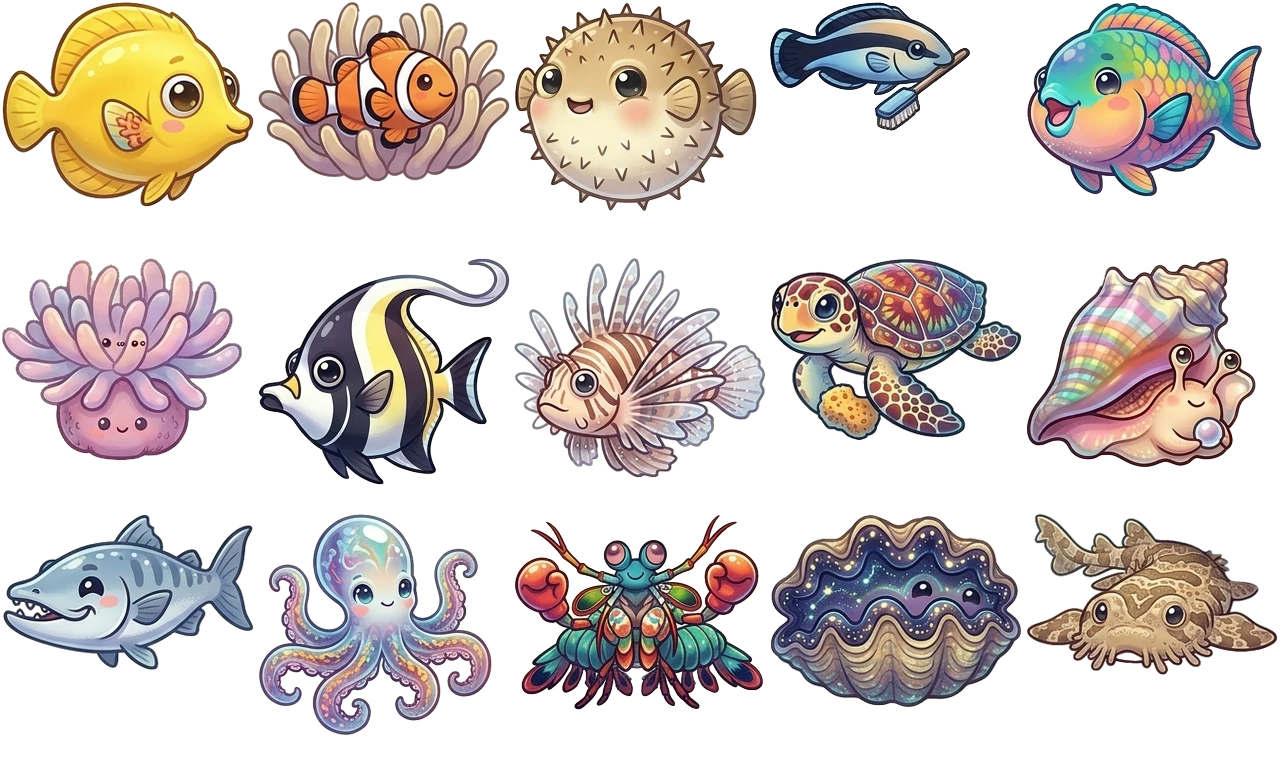
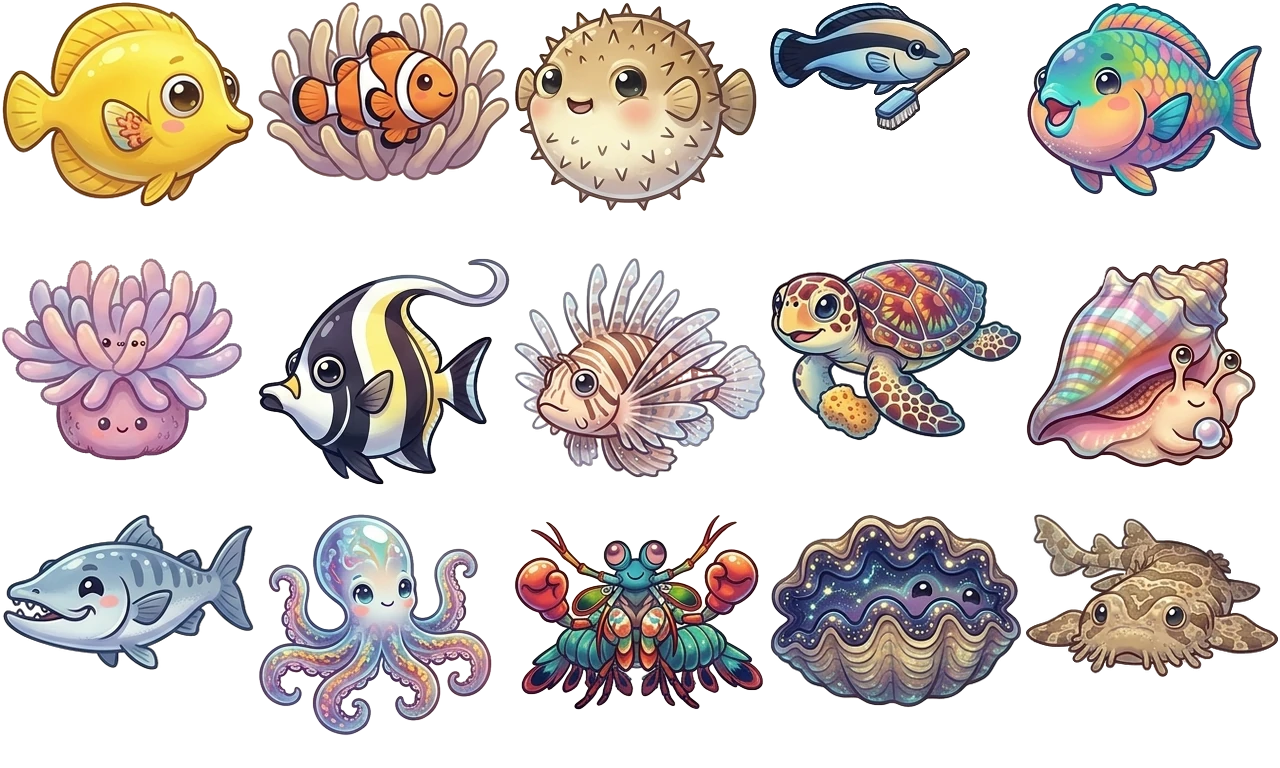
Tidesong: unlocks at 25/50/75 with a look switch, fixed side faces
Merfolk now unlock three of each at 25, 50 and 75 befriended in one
adventure, straight away, and each step offers the character picker to
switch looks. Lagoon and Violet get redrawn switched pictures (hips),
and Orchid's switched fin is finished. Also carries the staged capture
XP and Tasselfin files from 2026-11-20.

Changed region(s): [[0.7812, 0.6562, 1.0, 0.875]]

diff --git a/arcade/js/tidesong/creatureAtlas.js b/arcade/js/tidesong/creatureAtlas.js
@@ -3,8 +3,8 @@
 // creatureremakes/ by creature-cutter/remakes): each creature's rectangle
 // [x, y, w, h] in img/tidesong/creatures/<region>.webp, in the same order as
 // the region's 15 creatures in creatures.js. Do not edit by hand.
-export const creatureAtlas = {"prismreef":[[2,2,252,205],[258,2,252,180],[514,2,243,209],[770,2,200,129],[1026,2,237,195],[2,258,240,203],[258,258,252,227],[514,258,252,220],[770,258,252,183],[1026,258,230,210],[2,514,252,156],[258,514,234,222],[514,514,250,196],[770,514,252,194],[1026,514,252,161]],"verdant":[[2,2,252,135],[258,2,216,219],[514,2,213,177],[770,2,217,170],[1026,2,175,108],[2,258,235,201],[258,258,252,221],[514,258,241,196],[770,258,252,207],[1026,258,226,193],[2,514,252,210],[258,514,251,200],[514,514,250,156],[770,514,252,159],[1026,514,252,146]],"fluvius":[[2,2,194,166],[258,2,252,194],[514,2,189,252],[770,2,195,162],[1026,2,240,147],[2,258,247,191],[258,258,227,223],[514,258,252,180],[770,258,222,179],[1026,258,252,171],[2,514,242,177],[258,514,244,213],[514,514,223,182],[770,514,214,212],[1026,514,252,145]],"pelagia":[[2,2,252,168],[258,2,252,170],[514,2,211,252],[770,2,252,235],[1026,2,252,111],[2,258,224,252],[258,258,252,137],[514,258,252,151],[770,258,252,132],[1026,258,252,172],[2,514,252,169],[258,514,252,202],[514,514,252,186],[770,514,252,167],[1026,514,252,170]],"brinewallow":[[2,2,213,197],[258,2,180,170],[514,2,252,190],[770,2,233,212],[1026,2,203,127],[2,258,218,212],[258,258,193,225],[514,258,118,204],[770,258,252,191],[1026,258,216,183],[2,514,202,227],[258,514,179,157],[514,514,252,155],[770,514,207,185],[1026,514,241,161]],"frostveil":[[2,2,227,182],[258,2,163,185],[514,2,209,144],[770,2,236,153],[1026,2,247,226],[2,258,170,182],[258,258,241,165],[514,258,221,182],[770,258,209,161],[1026,258,172,179],[2,514,181,187],[258,514,172,176],[514,514,221,147],[770,514,185,217],[1026,514,241,168]],"gloomveil":[[2,2,233,188],[258,2,227,139],[514,2,198,191],[770,2,171,135],[1026,2,181,177],[2,258,223,184],[258,258,224,183],[514,258,227,137],[770,258,167,130],[1026,258,215,156],[2,514,203,180],[258,514,228,203],[514,514,235,163],[770,514,206,197],[1026,514,216,198]],"cragspire":[[2,2,240,188],[258,2,220,158],[514,2,238,192],[770,2,224,217],[1026,2,225,187],[2,258,141,133],[258,258,237,148],[514,258,236,213],[770,258,217,144],[1026,258,252,184],[2,514,197,215],[258,514,252,205],[514,514,235,214],[770,514,220,215],[1026,514,228,187]],"abyssal":[[2,2,184,185],[258,2,231,190],[514,2,209,168],[770,2,167,157],[1026,2,188,174],[2,258,178,179],[258,258,223,188],[514,258,170,134],[770,258,190,187],[1026,258,212,162],[2,514,239,171],[258,514,214,190],[514,514,186,159],[770,514,228,195],[1026,514,155,172]],"fangshore":[[2,2,182,200],[258,2,252,167],[514,2,252,249],[770,2,252,235],[1026,2,252,200],[2,258,252,136],[258,258,252,212],[514,258,252,143],[770,258,252,250],[1026,258,252,156],[2,514,252,237],[258,514,252,187],[514,514,246,252],[770,514,252,155],[1026,514,252,217]]};
+export const creatureAtlas = {"prismreef":[[2,2,252,205],[258,2,252,180],[514,2,243,209],[770,2,200,129],[1026,2,237,195],[2,258,240,203],[258,258,252,227],[514,258,252,220],[770,258,252,183],[1026,258,230,210],[2,514,252,156],[258,514,234,222],[514,514,250,196],[770,514,252,194],[1026,514,252,163]],"verdant":[[2,2,252,135],[258,2,216,219],[514,2,213,177],[770,2,217,170],[1026,2,175,108],[2,258,235,201],[258,258,252,221],[514,258,241,196],[770,258,252,207],[1026,258,226,193],[2,514,252,210],[258,514,251,200],[514,514,250,156],[770,514,252,159],[1026,514,252,146]],"fluvius":[[2,2,194,166],[258,2,252,194],[514,2,189,252],[770,2,195,162],[1026,2,240,147],[2,258,247,191],[258,258,227,223],[514,258,252,180],[770,258,222,179],[1026,258,252,171],[2,514,242,177],[258,514,244,213],[514,514,223,182],[770,514,214,212],[1026,514,252,145]],"pelagia":[[2,2,252,168],[258,2,252,170],[514,2,211,252],[770,2,252,235],[1026,2,252,111],[2,258,224,252],[258,258,252,137],[514,258,252,151],[770,258,252,132],[1026,258,252,172],[2,514,252,169],[258,514,252,202],[514,514,252,186],[770,514,252,167],[1026,514,252,170]],"brinewallow":[[2,2,213,197],[258,2,180,170],[514,2,252,190],[770,2,233,212],[1026,2,203,127],[2,258,218,212],[258,258,193,225],[514,258,118,204],[770,258,252,191],[1026,258,216,183],[2,514,202,227],[258,514,179,157],[514,514,252,155],[770,514,207,185],[1026,514,241,161]],"frostveil":[[2,2,227,182],[258,2,163,185],[514,2,209,144],[770,2,236,153],[1026,2,247,226],[2,258,170,182],[258,258,241,165],[514,258,221,182],[770,258,209,161],[1026,258,172,179],[2,514,181,187],[258,514,172,176],[514,514,221,147],[770,514,185,217],[1026,514,241,168]],"gloomveil":[[2,2,233,188],[258,2,227,139],[514,2,198,191],[770,2,171,135],[1026,2,181,177],[2,258,223,184],[258,258,224,183],[514,258,227,137],[770,258,167,130],[1026,258,215,156],[2,514,203,180],[258,514,228,203],[514,514,235,163],[770,514,206,197],[1026,514,216,198]],"cragspire":[[2,2,240,188],[258,2,220,158],[514,2,238,192],[770,2,224,217],[1026,2,225,187],[2,258,141,133],[258,258,237,148],[514,258,236,213],[770,258,217,144],[1026,258,252,184],[2,514,197,215],[258,514,252,205],[514,514,235,214],[770,514,220,215],[1026,514,228,187]],"abyssal":[[2,2,184,185],[258,2,231,190],[514,2,209,168],[770,2,167,157],[1026,2,188,174],[2,258,178,179],[258,258,223,188],[514,258,170,134],[770,258,190,187],[1026,258,212,162],[2,514,239,171],[258,514,214,190],[514,514,186,159],[770,514,228,195],[1026,514,155,172]],"fangshore":[[2,2,182,200],[258,2,252,167],[514,2,252,249],[770,2,252,235],[1026,2,252,200],[2,258,252,136],[258,258,252,212],[514,258,252,143],[770,258,252,250],[1026,258,252,156],[2,514,252,237],[258,514,252,187],[514,514,246,252],[770,514,252,155],[1026,514,252,217]]};
 
 // A hash of each region picture, added to its address so browsers fetch
 // the new picture whenever it changes.
-export const creatureArtVersion = {"prismreef":"d20cc8d508","verdant":"070a72cadb","fluvius":"4781425dd9","pelagia":"941ec72ac7","brinewallow":"b69db1bfab","frostveil":"8fc600987e","gloomveil":"12e54daefc","cragspire":"581d9bd57d","abyssal":"733a6e8694","fangshore":"a9b7f3933a"};
+export const creatureArtVersion = {"prismreef":"c906772ae3","verdant":"070a72cadb","fluvius":"4781425dd9","pelagia":"941ec72ac7","brinewallow":"b69db1bfab","frostveil":"8fc600987e","gloomveil":"12e54daefc","cragspire":"581d9bd57d","abyssal":"733a6e8694","fangshore":"a9b7f3933a"};

diff --git a/arcade/js/tidesong/creator.js b/arcade/js/tidesong/creator.js
@@ -1,12 +1,15 @@
 // Choosing your character: a mermaid or merman from the cast, shown exactly
 // as drawn, plus a name. Three of each are open at first; the rest show as
-// locked until playthroughs unlock them (unlocks.js). Resolves with the
+// locked until adventures unlock them (unlocks.js). Resolves with the
 // finished avatar, or null if the player backs out to the main menu.
+// With `switching` (the avatar in play) it is the look picker offered at
+// each unlock milestone: no name box, and it resolves with the new avatar,
+// or null to keep the current one.
 import { bodies } from "./avatar.js";
 import { castList, drawCast, unlockOrder } from "./cast.js";
 import { html } from "./panels.js";
 import { drawPortrait, portraitHeight, portraitWidth } from "./portrait.js";
-import { isUnlocked, perUnlock, unlockGoal, unlockedLooks } from "./unlocks.js";
+import { isUnlocked, nextUnlockAt, perUnlock, unlockedLooks } from "./unlocks.js";
 import { escapeHtml } from "./util.js";
 
 function renderPreview(canvas, avatar) {
@@ -38,30 +41,35 @@ function card(group, look, avatar, username) {
   </button>`;
 }
 
-export function runCreator(panels, username) {
+export function runCreator(panels, username, { switching = null, title = "Choose your merfolk" } = {}) {
   const firstOpen = (group) => {
     return unlockedLooks(username, group)[0];
   };
-  const avatar = { body: 0, look: firstOpen("mermaids"), name: "" };
-  avatar.name = castList("mermaids")[avatar.look].name;
+  const avatar = switching
+    ? { ...switching }
+    : { body: 0, look: firstOpen("mermaids"), name: "" };
+  if (!switching) avatar.name = castList("mermaids")[avatar.look].name;
+  const nameBox = switching ? "" : `<label class="ts-name">Name <input maxlength="14" autocomplete="off" spellcheck="false"></label>`;
+  const backLabel = switching ? "Keep my look" : "Back";
+  const goLabel = switching ? "Switch!" : "Dive in!";
   return new Promise((resolve) => {
     panels.open("ts-creator-screen", (root) => {
       const view = html(`
         <div class="ts-creator">
           <div class="ts-preview">
             <canvas width="${portraitWidth}" height="${portraitHeight}" aria-label="Your character"></canvas>
-            <label class="ts-name">Name <input maxlength="14" autocomplete="off" spellcheck="false"></label>
+            ${nameBox}
           </div>
           <div class="ts-options">
-            <h2>Choose your merfolk</h2>
+            <h2>${escapeHtml(title)}</h2>
             <div class="ts-body-tabs" role="group" aria-label="Mermaid or merman"></div>
             <p class="ts-note ts-unlock-note"></p>
             <div class="ts-cast"></div>
           </div>
           <div class="ts-creator-actions">
-            <button type="button" class="ts-btn ghost" data-back>Back</button>
+            <button type="button" class="ts-btn ghost" data-back>${backLabel}</button>
             <button type="button" class="ts-btn ghost" data-random>Surprise me</button>
-            <button type="button" class="ts-btn go" data-begin>Dive in!</button>
+            <button type="button" class="ts-btn go" data-begin>${goLabel}</button>
           </div>
         </div>`);
       root.append(view);
@@ -69,9 +77,12 @@ export function runCreator(panels, username) {
       const tabs = view.querySelector(".ts-body-tabs");
       const note = view.querySelector(".ts-unlock-note");
       const grid = view.querySelector(".ts-cast");
-      const name = view.querySelector("input");
+      // Switching has no name box. The name then follows the character
+      // only if it is still that character's own name.
+      const name = view.querySelector("input") ?? { value: avatar.name };
       name.value = avatar.name;
-      let typed = false;
+      let typed = Boolean(switching)
+        && avatar.name !== castList(bodies[avatar.body].group)[avatar.look].name;
 
       const pick = (look) => {
         const group = bodies[avatar.body].group;
@@ -92,7 +103,7 @@ export function runCreator(panels, username) {
         const open = unlockedLooks(username, group).length;
         note.textContent = open >= 12
           ? `All 12 ${bodies[avatar.body].plural.toLowerCase()} are unlocked!`
-          : `${open} of 12 unlocked. Befriend ${unlockGoal} creatures in one adventure to unlock ${perUnlock} more mermaids and ${perUnlock} more mermen for your next adventure.`;
+          : `${open} of 12 unlocked. Befriend ${nextUnlockAt(username)} creatures in one adventure to unlock ${perUnlock} more mermaids and ${perUnlock} more mermen.`;
         grid.innerHTML = unlockOrder[group].map((look) => {
           return card(group, look, avatar, username);
         }).join("");
@@ -118,10 +129,12 @@ export function runCreator(panels, username) {
         refresh();
         grid.querySelector(`[data-look="${avatar.look}"]`)?.focus();
       });
-      name.addEventListener("input", () => {
-        typed = name.value.trim() !== "";
-        avatar.name = name.value;
-      });
+      if (!switching) {
+        name.addEventListener("input", () => {
+          typed = name.value.trim() !== "";
+          avatar.name = name.value;
+        });
+      }
       view.querySelector("[data-random]").addEventListener("click", () => {
         const open = unlockedLooks(username, bodies[avatar.body].group);
         pick(open[Math.floor(Math.random() * open.length)]);

diff --git a/arcade/js/tidesong/modelAtlas.js b/arcade/js/tidesong/modelAtlas.js
@@ -7,4 +7,4 @@
 // as [x, y, w, h, dx, dy]: (dx, dy) is where that picture's corner
 // sits on the normal one's. `heads` is each normal figure's head
 // centre within it. Do not edit by hand.
-export const modelAtlas = {"heads":{"mermaids":[[64.0,21.3],[66.9,21.7],[69.8,21.7],[67.1,22.4],[64.7,19.0],[64.3,20.5],[87.1,22.4],[66.7,20.7],[68.0,20.0],[65.1,19.7],[67.7,22.7],[68.4,22.6]],"mermen":[[57.6,22.6],[55.9,21.8],[57.7,22.1],[56.9,22.1],[58.9,22.2],[67.2,24.2],[85.2,22.7],[87.7,23.8],[86.1,22.6],[84.8,22.8],[83.4,23.0],[83.9,22.6]]},"mermaids":[[0,0,156,254],[158,0,153,269],[313,0,150,272],[465,0,151,271],[618,0,162,239],[782,0,168,242],[952,0,173,269],[1127,0,155,256],[1284,0,153,249],[1439,0,152,244],[1593,0,170,274],[1765,0,153,276]],"mermen":[[0,278,154,282],[156,278,156,276],[314,278,154,279],[470,278,158,278],[630,278,158,276],[790,278,168,282],[960,278,148,285],[1110,278,165,288],[1277,278,148,282],[1427,278,147,287],[1576,278,149,288],[1727,278,150,286]],"switch":{"mermaids":[[0,568,165,254,-36.5,0.0],[167,568,158,269,-21.8,0.0],[327,568,168,272,-26.9,0.0],[497,568,155,271,-19.7,0.0],[654,568,186,239,-40.3,0.0],[842,568,192,242,-23.5,0.4],[1036,568,157,269,0.0,0.0],[1195,568,170,256,-39.9,0.0],[1367,568,158,249,-34.9,0.0],[1527,568,168,244,-39.9,0.0],[1697,568,184,274,-14.7,0.0],[1883,568,173,276,-19.7,0.0]],"mermen":[[0,846,154,282,-37.6,0.0],[156,846,156,276,-43.2,0.0],[314,846,154,279,-37.6,0.0],[470,846,158,278,-43.2,0.0],[630,846,158,276,-39.2,0.0],[790,846,168,282,-32.8,0.0],[960,846,148,285,24.0,0.0],[1110,846,165,288,11.2,0.0],[1277,846,148,282,25.6,0.0],[1427,846,147,287,23.2,0.0],[1576,846,149,288,19.2,0.0],[1727,846,150,286,19.2,0.0]]},"art":"ad4b3a4846"};
+export const modelAtlas = {"heads":{"mermaids":[[64.0,21.3],[66.9,21.7],[69.8,21.7],[67.1,22.4],[64.7,19.0],[64.3,20.5],[87.1,22.4],[66.7,20.7],[68.0,20.0],[65.1,19.7],[67.7,22.7],[68.4,22.6]],"mermen":[[57.6,22.6],[55.9,21.8],[57.7,22.1],[56.9,22.1],[58.9,22.2],[67.2,24.2],[85.2,22.7],[87.7,23.8],[86.1,22.6],[84.8,22.8],[83.4,23.0],[83.9,22.6]]},"mermaids":[[0,0,156,254],[158,0,153,269],[313,0,150,272],[465,0,151,271],[618,0,162,239],[782,0,168,242],[952,0,173,269],[1127,0,155,256],[1284,0,153,249],[1439,0,152,244],[1593,0,170,274],[1765,0,153,276]],"mermen":[[0,278,154,282],[156,278,156,276],[314,278,154,279],[470,278,158,278],[630,278,158,276],[790,278,168,282],[960,278,148,285],[1110,278,165,288],[1277,278,148,282],[1427,278,147,287],[1576,278,149,288],[1727,278,150,286]],"switch":{"mermaids":[[0,568,165,254,-36.5,0.0],[167,568,158,269,-21.8,0.0],[327,568,160,275,-17.6,0.0],[489,568,155,271,-19.7,0.0],[646,568,186,239,-40.3,0.0],[834,568,215,242,-47.5,0.4],[1051,568,157,269,0.0,0.0],[1210,568,170,256,-39.9,0.0],[1382,568,158,249,-34.9,0.0],[1542,568,168,245,-39.9,-0.4],[1712,568,184,274,-14.7,0.0],[1898,568,173,276,-19.7,0.0]],"mermen":[[0,846,154,282,-37.6,0.0],[156,846,156,276,-43.2,0.0],[314,846,154,279,-37.6,0.0],[470,846,158,278,-43.2,0.0],[630,846,158,276,-39.2,0.0],[790,846,168,282,-32.8,0.0],[960,846,148,285,24.0,0.0],[1110,846,165,288,11.2,0.0],[1277,846,148,282,25.6,0.0],[1427,846,147,287,23.2,0.0],[1576,846,149,288,19.2,0.0],[1727,846,150,286,19.2,0.0]]},"art":"c11aa37595"};

diff --git a/arcade/js/tidesong/game.js b/arcade/js/tidesong/game.js
@@ -14,7 +14,7 @@ import { runCreator } from "./creator.js";
 import { loadCastArt } from "./cast.js";
 import { loadCreatureArt } from "./creatureArt.js";
 import { pullSaves, pushSlot, pushUnlocks } from "./cloud.js";
-import { claimUnlock, perUnlock, unlockGoal } from "./unlocks.js";
+import { claimUnlock } from "./unlocks.js";
 import { creatureById } from "./creatures.js";
 import { items } from "./data.js";
 import { drawHud } from "./hud.js";
@@ -68,6 +68,8 @@ const game = {
   inTown: false,
   mode: "title",
   moving: false,
+  // An unlock step just reached: offer a new look once the player is free.
+  lookOffer: null,
   // Mermaid swimming and turning poses (see pose.js).
   pose: makePose(),
   saveTimer: 0,
@@ -107,10 +109,12 @@ async function ask(label) {
 
 function save() {
   if (!game.state) return;
-  // Reaching the befriend goal unlocks more merfolk for the next adventure.
-  if (claimUnlock(game.state, username)) {
-    panels.toast(`You've befriended ${unlockGoal} creatures! ${perUnlock} new mermaids and ${perUnlock} new mermen are unlocked for your next adventure.`, 6000);
-    pushUnlocks(username);
+  // Befriending 25, 50 and 75 creatures unlocks more merfolk, and each
+  // time the player may switch to one.
+  const reached = claimUnlock(game.state, username);
+  if (reached) {
+    if (reached.fresh) pushUnlocks(username);
+    game.lookOffer = reached;
   }
   saveGame(game.state, username, game.slot);
   pushSlot(username, game.slot);
@@ -333,6 +337,27 @@ async function useLair(lair) {
   if (go) await startBattle(species, legendaryLevel(species.id));
 }
 
+// At an unlock step: the character picker, starting on the current look.
+async function offerLook() {
+  const { count, fresh } = game.lookOffer;
+  game.lookOffer = null;
+  game.busy = true;
+  // The note under the tabs gives the counts, so the heading stays short.
+  const title = fresh ? `${count} befriended! New merfolk unlocked!` : `${count} befriended! Switch your look?`;
+  const chosen = await runCreator(panels, username, { switching: game.state.avatar, title });
+  if (chosen) {
+    game.state.avatar = chosen;
+    // The pictures and turn pose belong to the old character.
+    game.pose = makePose();
+    clearPortraitCache();
+    clearSpriteCache();
+    save();
+    panels.toast("New look saved!");
+  }
+  input.flush();
+  game.busy = false;
+}
+
 // One step through the wild: maybe a creature appears.
 async function step() {
   const { state } = game;
@@ -509,6 +534,7 @@ function loop(now) {
   game.dt = dt;
   view.time += dt;
   if (game.mode === "explore" && game.state) {
+    if (!game.busy && !panels.isOpen() && game.lookOffer) offerLook();
     if (!game.busy && !panels.isOpen()) updateExplore(dt);
     renderExplore();
   } else if (game.mode === "battle") {
@@ -523,6 +549,7 @@ function loop(now) {
 
 function begin(state) {
   game.state = state;
+  game.lookOffer = null;
   game.mode = "explore";
   game.atDoor = true;
   game.atLair = true;

diff --git a/arcade/js/tidesong/unlocks.js b/arcade/js/tidesong/unlocks.js
@@ -1,10 +1,11 @@
 // Which merfolk a player can choose. Three mermaids and three mermen are
-// open from the start. Each adventure that befriends `unlockGoal`
-// creatures opens three more of each for the player's next adventures.
+// open from the start. An adventure that befriends 25, 50 and 75 creatures
+// opens three more of each at every one of those steps, straight away.
 // Unlocks belong to the arcade login and survive starting a new character.
 import { unlockOrder } from "./cast.js";
 
-export const unlockGoal = 25;
+// Befriended counts that unlock the next three of each.
+export const unlockSteps = [25, 50, 75];
 export const perUnlock = 3;
 const total = 12;
 
@@ -12,7 +13,7 @@ function key(username) {
   return `tidesong:unlocks:${username || "guest"}`;
 }
 
-// How many playthroughs have reached the goal so far.
+// How many unlock steps this login has reached, in its best adventure.
 export function unlockTier(username) {
   try {
     const tier = Number(JSON.parse(localStorage.getItem(key(username)))?.tier);
@@ -43,13 +44,32 @@ export function isUnlocked(username, group, look) {
   return unlockedLooks(username, group).includes(look);
 }
 
+// The befriended count that unlocks the next three, for the creator's note.
+export function nextUnlockAt(username) {
+  return unlockSteps[Math.min(unlockTier(username), unlockSteps.length - 1)];
+}
+
+// How many unlock steps an adventure has reached. Saves from before the
+// steps only flag the first one (`unlockClaimed`).
+function stepsReached(state) {
+  if (Number.isInteger(state.unlockStep)) return state.unlockStep;
+  return state.unlockClaimed ? 1 : 0;
+}
+
 // Call after anything that can befriend a creature. The first time this
-// adventure reaches the goal, the next three of each unlock. Returns true
-// when something new was unlocked, so the game can say so.
+// adventure reaches an unlock step, the login's unlocks catch up to it.
+// Returns null, or { count, fresh } for the step just reached: `count` is
+// how many were befriended, and `fresh` is true when it opened characters
+// this login did not have yet. Either way the game offers a new look.
 export function claimUnlock(state, username) {
-  if (state.unlockClaimed || state.caught.length < unlockGoal) return false;
-  state.unlockClaimed = true;
-  if (unlockedCount(username) >= total) return false;
-  setUnlockTier(username, unlockTier(username) + 1);
-  return true;
+  const before = stepsReached(state);
+  const reached = unlockSteps.filter((n) => {
+    return state.caught.length >= n;
+  }).length;
+  if (reached <= before) return null;
+  state.unlockStep = reached;
+  delete state.unlockClaimed;
+  const fresh = reached > unlockTier(username);
+  if (fresh) setUnlockTier(username, reached);
+  return { count: unlockSteps[reached - 1], fresh };
 }

diff --git a/arcade/js/tidesong/battle.js b/arcade/js/tidesong/battle.js
@@ -145,6 +145,26 @@ function levelUp(entity, gain) {
   return grew;
 }
 
+// Names everyone who earns XP from this battle: you, plus each team member
+// who took part and is still standing.
+function xpLine(b, gain) {
+  const { state } = b;
+  const names = [];
+  for (const uid of b.participants) {
+    if (uid === "you") {
+      names.push(state.avatar.name);
+      continue;
+    }
+    const c = state.party.find((p) => {
+      return p.uid === uid;
+    });
+    if (c && c.hp > 0) names.push(creatureById(c.species).name);
+  }
+  if (names.length === 0) return `You earned ${gain} XP.`;
+  const who = names.length === 1 ? names[0] : `${names.slice(0, -1).join(", ")} and ${names[names.length - 1]}`;
+  return `${who} ${names.length === 1 ? "earned" : "each earned"} ${gain} XP.`;
+}
+
 async function reward(b) {
   const { state } = b;
   const wild = b.scene.wild;
@@ -162,6 +182,7 @@ async function reward(b) {
     b.sound("level");
     await b.say(`${wild.species.name} left you a ${items[key].name}!${opens ? ` The way into ${opens.name} is open.` : ""}`);
   }
+  await b.say(xpLine(b, gain));
   for (const uid of b.participants) {
     if (uid === "you") {
       const before = playerStats(state);
@@ -253,6 +274,8 @@ async function sing(b) {
   }
   b.scene.capture = { done: true, start: performance.now() };
   b.sound("win");
+  // You sang the song, so you share the XP for the capture.
+  b.participants.add("you");
   const where = addCaptured(state, wild.species, wild.level, Math.max(1, wild.hp));
   await b.say(`You befriended ${wild.species.name}!`);
   if (where === "storage") await b.say("Your team is full, so it swam off to your Tide Pool.");

diff --git a/arcade/js/tidesong/creatureFacing.js b/arcade/js/tidesong/creatureFacing.js
@@ -11,7 +11,7 @@ export const creatureFacing = {
   frostveil: "FFLLRFRFLFFFLRL",
   gloomveil: "RLRRRFRLRFLLLFF",
   pelagia: "LLFFLLLRRLFRLLL",
-  prismreef: "RRFRLFLLLRLFFFF",
+  prismreef: "RRFRLFLLLRLFFFL",
   verdant: "RFLLFFRRLLLFRRR",
 };
 
